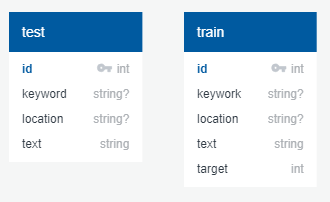
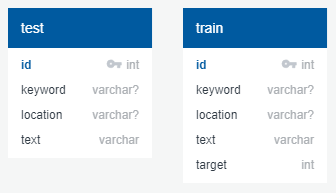
updated schema, schema img, readme

diff --git a/README.md b/README.md
@@ -11,7 +11,10 @@ Data source
 Data description
 
 ### Database
-Schema image for test and train tables: [Schema Image](resources/schema.png)
+
+Kaggle challenge files test.csv and train.csv imported to PostgreSQL database for use in Jupyter. 
+
+Schema image for test and train tables: [schema image](resources/schema.png)
 Schema file for test and train tables: [schema.sql](resources/schema.sql)
 
 ## Technologies
